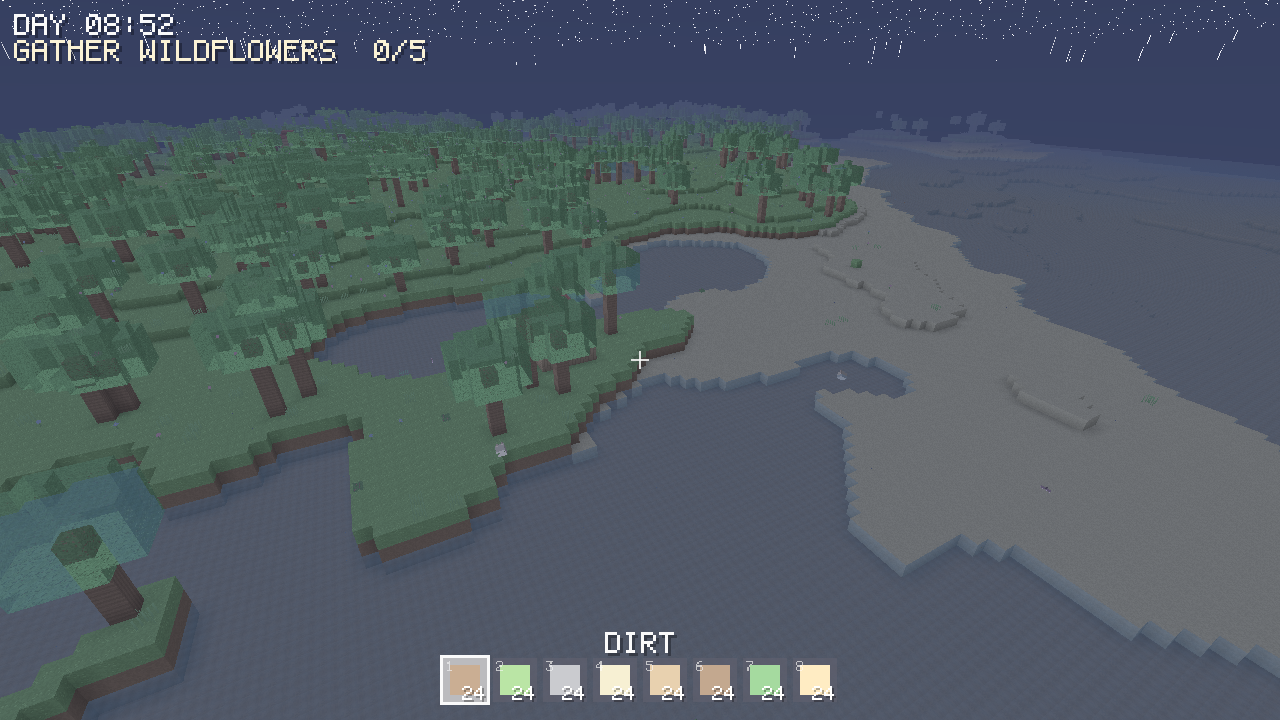
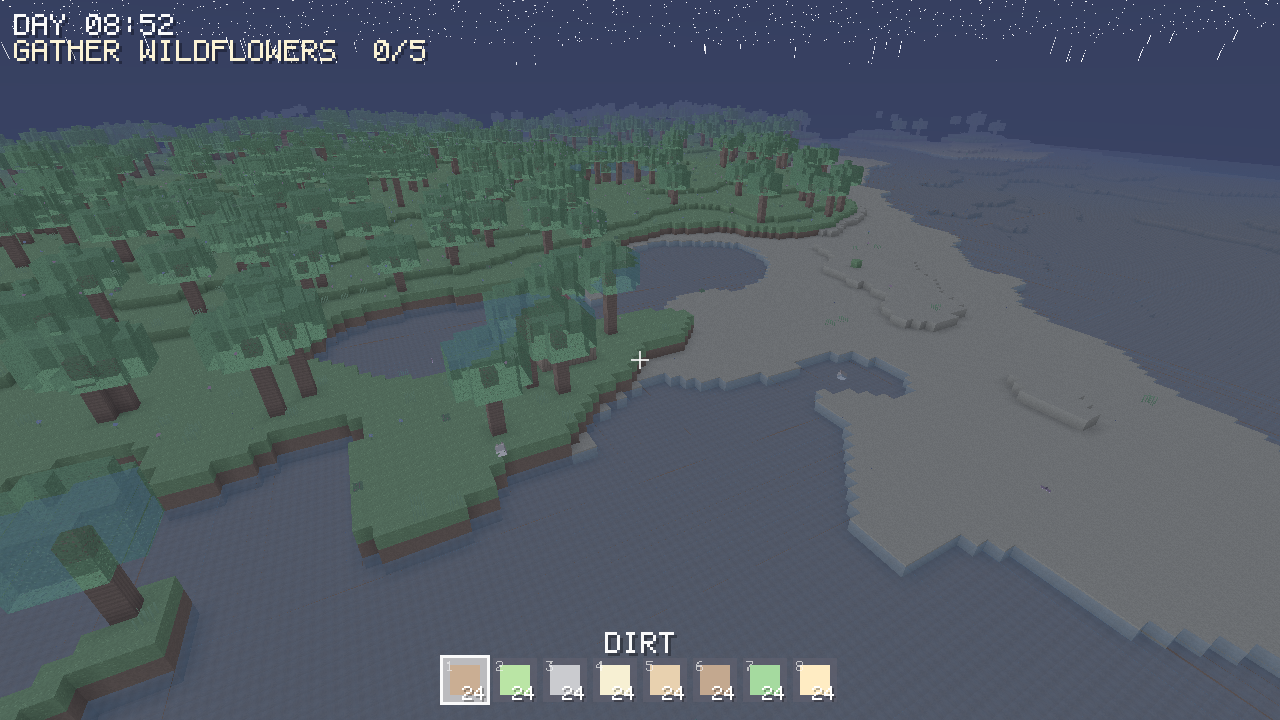
Stage 16: animated water and swaying grass
- Elapsed time is packed into the globals (sun_dir.w) and set each frame.
- World vertex shader animates by layer: water gets a rolling swell and sits
  slightly below the block top; flower/tall-grass top vertices sway in the wind.
  Displacement is a pure function of world position, so shared quad edges move
  together and never crack open.

diff --git a/crates/game/src/render/scene.rs b/crates/game/src/render/scene.rs
@@ -65,6 +65,8 @@ pub struct GpuScene {
     ui_buffer: Option<(wgpu::Buffer, u32)>,
     /// Index of the solid-white atlas tile, used by untextured geometry.
     white_layer: u32,
+    /// Elapsed time (seconds) for animation, packed into the globals.
+    time: f32,
     pub render_distance: f32,
 }
 
@@ -202,10 +204,16 @@ impl GpuScene {
             ui_pipeline,
             ui_buffer: None,
             white_layer: atlas.white_layer,
+            time: 0.0,
             chunks: AHashMap::new(),
             entities: None,
             render_distance: 16.0 * CHUNK_EDGE,
         }
+    }
+
+    /// Set the elapsed-time value used to drive vertex animation.
+    pub fn set_time(&mut self, t: f32) {
+        self.time = t;
     }
 
     /// Atlas layer index of the solid-white tile (untextured geometry).
@@ -326,7 +334,7 @@ impl GpuScene {
         let globals = Globals {
             view_proj: vp.to_cols_array_2d(),
             camera_pos: [camera.eye.x, camera.eye.y, camera.eye.z, self.render_distance],
-            sun_dir: [sun.x, sun.y, sun.z, 0.0],
+            sun_dir: [sun.x, sun.y, sun.z, self.time],
             sky_color: [sky.x, sky.y, sky.z, 1.0],
             sun_color: [sun_c.x, sun_c.y, sun_c.z, env.ambient()],
             sky_zenith: [zenith.x, zenith.y, zenith.z, 1.0],

diff --git a/crates/game/src/render/app.rs b/crates/game/src/render/app.rs
@@ -235,6 +235,9 @@ impl State {
         };
         self.renderer.update_hud(&hud);
 
+        // Drive vertex animation (water/grass) from elapsed sim time.
+        self.renderer.set_time(self.game.time);
+
         // Camera follows the eye.
         let camera = Camera::new(eye, look, self.renderer.aspect());
 

diff --git a/crates/game/src/render/window.rs b/crates/game/src/render/window.rs
@@ -60,6 +60,10 @@ impl Renderer {
         self.scene.render_distance = d;
     }
 
+    pub fn set_time(&mut self, t: f32) {
+        self.scene.set_time(t);
+    }
+
     pub fn resize(&mut self, width: u32, height: u32) {
         if width == 0 || height == 0 {
             return;

diff --git a/crates/game/src/render/capture.rs b/crates/game/src/render/capture.rs
@@ -83,6 +83,10 @@ impl Headless {
         self.scene.render_distance = d;
     }
 
+    pub fn set_time(&mut self, t: f32) {
+        self.scene.set_time(t);
+    }
+
     pub fn aspect(&self) -> f32 {
         self.width as f32 / self.height.max(1) as f32
     }

diff --git a/crates/game/src/bin/screenshot.rs b/crates/game/src/bin/screenshot.rs
@@ -72,6 +72,7 @@ fn main() {
     }
 
     renderer.set_render_distance(render_distance);
+    renderer.set_time(game.time);
     renderer.sync_meshes(&game.manager);
     renderer.update_entities(&game.entities);
     let quest = game.quests.hud();
